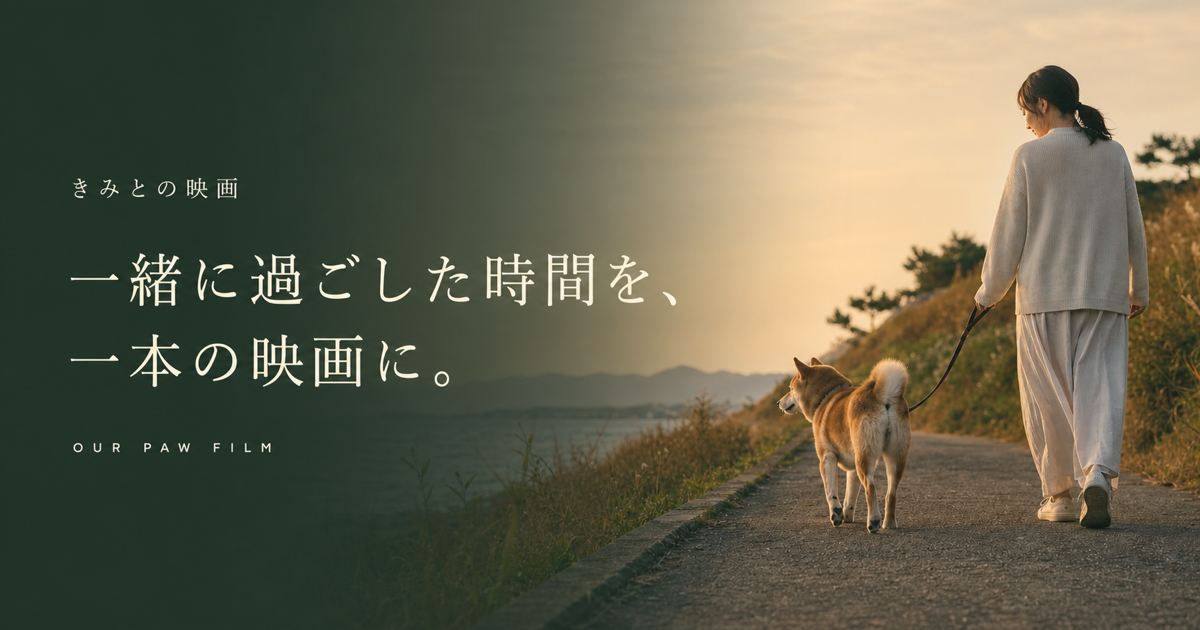
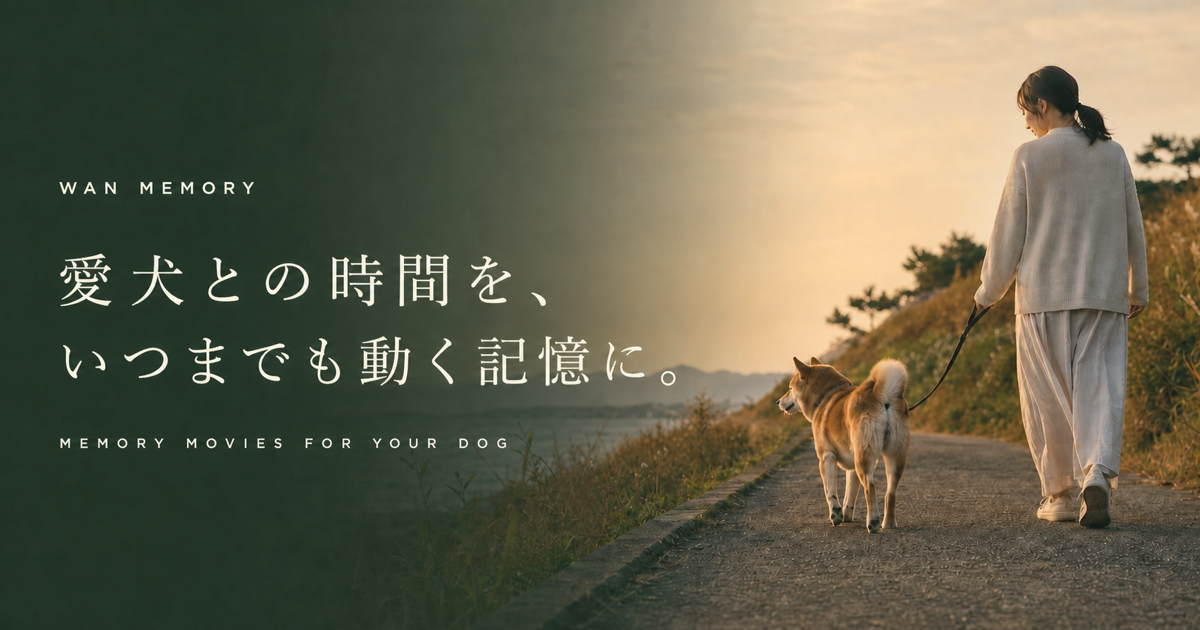
Rebrand site as WAN MEMORY

diff --git a/app/layout.tsx b/app/layout.tsx
@@ -10,22 +10,22 @@ export async function generateMetadata(): Promise<Metadata> {
 
   return {
     title: {
-      default: "きみとの映画｜愛犬との時間を一本の映画に",
-      template: "%s｜きみとの映画",
+      default: "WAN MEMORY｜愛犬との時間を動く記憶に",
+      template: "%s｜WAN MEMORY",
     },
     description:
       "写真とエピソードをもとに、愛犬とのかけがえのない時間を実写映画のような映像に仕立てるオーダーメイドサービスです。",
     openGraph: {
-      title: "きみとの映画",
-      description: "一緒に過ごした時間を、一本の映画に。",
+      title: "WAN MEMORY",
+      description: "愛犬との時間を、いつまでも動く記憶に。",
       locale: "ja_JP",
       type: "website",
-      images: [{ url: `${origin}/og.png`, width: 1200, height: 630, alt: "愛犬と歩く時間を一本の映画に" }],
+      images: [{ url: `${origin}/og.png`, width: 1200, height: 630, alt: "愛犬との時間を、いつまでも動く記憶に。" }],
     },
     twitter: {
       card: "summary_large_image",
-      title: "きみとの映画",
-      description: "一緒に過ごした時間を、一本の映画に。",
+      title: "WAN MEMORY",
+      description: "愛犬との時間を、いつまでも動く記憶に。",
       images: [`${origin}/og.png`],
     },
   };

diff --git a/app/components/SiteFooter.tsx b/app/components/SiteFooter.tsx
@@ -6,8 +6,8 @@ export function SiteFooter() {
       <div className="shell footer-grid">
         <div>
           <Link className="brand footer-brand" href="/">
-            <span className="brand-mark" aria-hidden="true">き</span>
-            <span className="brand-type">きみとの映画<small>OUR PAW FILM</small></span>
+            <span className="brand-mark" aria-hidden="true">WM</span>
+            <span className="brand-type">WAN MEMORY<small>MEMORY MOVIES FOR YOUR DOG</small></span>
           </Link>
           <p>愛犬との時間を、一本の実写映画に。</p>
         </div>
@@ -17,7 +17,7 @@ export function SiteFooter() {
           <div><p>LEGAL</p><span>利用規約</span><span>プライバシーポリシー</span><span>特定商取引法に基づく表記</span></div>
         </div>
       </div>
-      <div className="shell footer-bottom"><span>© 2026 KIMI TO NO EIGA</span><span>Made for every small, precious moment.</span></div>
+      <div className="shell footer-bottom"><span>© 2026 WAN MEMORY</span><span>Made for every small, precious moment.</span></div>
     </footer>
   );
 }

diff --git a/app/components/SiteHeader.tsx b/app/components/SiteHeader.tsx
@@ -4,9 +4,9 @@ export function SiteHeader() {
   return (
     <header className="site-header">
       <div className="shell header-inner">
-        <Link className="brand" href="/" aria-label="きみとの映画 トップへ">
-          <span className="brand-mark" aria-hidden="true">き</span>
-          <span className="brand-type">きみとの映画<small>OUR PAW FILM</small></span>
+        <Link className="brand" href="/" aria-label="WAN MEMORY トップへ">
+          <span className="brand-mark" aria-hidden="true">WM</span>
+          <span className="brand-type">WAN MEMORY<small>MEMORY MOVIES FOR YOUR DOG</small></span>
         </Link>
         <nav className="desktop-nav" aria-label="メインナビゲーション">
           <a href="/#films">作品</a>

diff --git a/app/globals.css b/app/globals.css
@@ -40,8 +40,8 @@ button, summary, label, a { -webkit-tap-highlight-color: transparent; }
 .site-header { height: 88px; position: absolute; inset: 0 0 auto; z-index: 20; color: white; border-bottom: 1px solid rgba(255,255,255,.16); }
 .header-inner { height: 100%; display: flex; align-items: center; }
 .brand { display: inline-flex; align-items: center; gap: 12px; min-height: 44px; }
-.brand-mark { width: 39px; height: 39px; display: inline-grid; place-items: center; border: 1px solid currentColor; border-radius: 50%; font-family: var(--font-serif); font-size: 19px; }
-.brand-type { display: flex; flex-direction: column; font-family: var(--font-serif); font-size: 17px; letter-spacing: .11em; line-height: 1.1; }
+.brand-mark { width: 39px; height: 39px; display: inline-grid; place-items: center; border: 1px solid currentColor; border-radius: 50%; font-family: var(--font-sans); font-size: 10px; font-weight: 700; letter-spacing: .04em; }
+.brand-type { display: flex; flex-direction: column; font-family: var(--font-serif); font-size: 17px; letter-spacing: .12em; line-height: 1.1; }
 .brand-type small { margin-top: 4px; font-family: var(--font-sans); font-size: 7px; letter-spacing: .19em; opacity: .65; }
 .desktop-nav { margin-left: auto; display: flex; align-items: center; gap: 34px; }
 .desktop-nav a { padding: 12px 0; font-size: 12px; font-weight: 600; letter-spacing: .05em; opacity: .78; transition: opacity .2s ease; }

diff --git a/app/story/StoryWizard.tsx b/app/story/StoryWizard.tsx
@@ -90,7 +90,7 @@ export function StoryWizard() {
   return (
     <main className="wizard-page">
       <header className="wizard-header">
-        <Link className="brand" href="/" aria-label="トップへ"><span className="brand-mark" aria-hidden="true">き</span><span className="brand-type">きみとの映画<small>OUR PAW FILM</small></span></Link>
+        <Link className="brand" href="/" aria-label="WAN MEMORY トップへ"><span className="brand-mark" aria-hidden="true">WM</span><span className="brand-type">WAN MEMORY<small>MEMORY MOVIES FOR YOUR DOG</small></span></Link>
         <div className="save-status" aria-live="polite"><span className={saved ? "save-dot active" : "save-dot"} />{saved ? "保存しました" : "自動保存"}</div>
         <Link className="wizard-close" href="/" aria-label="入力を閉じる">×</Link>
       </header>
@@ -113,7 +113,7 @@ export function StoryWizard() {
 
           {step === 3 && <div className="wizard-panel"><p className="eyebrow">FILM DIRECTION</p><h1 id="step-title">どんな空気の映画にしますか？</h1><p className="step-lead">迷ったら「日常映画」がおすすめです。担当者からもご提案します。</p><div className="style-list">{styles.map(([title, copy], index) => <label className={draft.style === title ? "style-card selected" : "style-card"} key={title}><input type="radio" name="style" checked={draft.style === title} onChange={() => update("style", title)} /><span className={`style-swatch swatch-${index + 1}`} aria-hidden="true" /><span><strong>{title}</strong><small>{copy}</small></span><span className="radio-dot" /></label>)}</div><div className="form-grid compact"><label><span>映像比率</span><select value={draft.ratio} onChange={(e) => update("ratio", e.target.value)}><option>16:9 横型</option><option>9:16 縦型</option><option>1:1 正方形</option></select></label><label><span>ナレーション</span><select value={draft.narration} onChange={(e) => update("narration", e.target.value)}><option>ナレーションなし</option><option>女性・日本語</option><option>男性・日本語</option><option>家族の声を使う</option></select></label><label><span>BGM</span><select value={draft.bgm} onChange={(e) => update("bgm", e.target.value)}><option>おまかせ</option><option>静かなピアノ</option><option>アコースティックギター</option><option>映画音楽のように</option></select></label></div></div>}
 
-          {step === 4 && <div className="wizard-panel"><p className="eyebrow">REVIEW</p><h1 id="step-title">ありがとうございます。</h1><p className="step-lead">まずは相談受付としてお預かりします。決済は内容と納期をご確認いただいた後です。</p><div className="review-card"><div className="review-title"><span className="brand-mark" aria-hidden="true">き</span><div><strong>{draft.petName || "愛犬"}ちゃんの映画</strong><small>{draft.purpose}・{draft.style}</small></div></div><dl><div><dt>お名前</dt><dd>{draft.petName || "未入力"}</dd></div><div><dt>犬種・年齢</dt><dd>{[draft.breed, draft.age].filter(Boolean).join(" / ") || "未入力"}</dd></div><div><dt>性格</dt><dd>{draft.personality.join("、") || "未入力"}</dd></div><div><dt>希望</dt><dd>{draft.ratio}・{draft.narration}</dd></div><div><dt>写真</dt><dd>{draft.photoNames.length ? `${draft.photoNames.length}枚を選択` : "後から追加"}</dd></div><div><dt>プラン</dt><dd>{draft.plan === "short" ? "メモリーショート" : draft.plan === "memorial" ? "メモリアル" : "メモリーフィルム"}</dd></div></dl><button type="button" className="review-edit" onClick={() => setStep(0)}>最初から内容を見直す</button></div><label className="consent-box"><input type="checkbox" checked={draft.consent} onChange={(e) => update("consent", e.target.checked)} /><span><strong>内容と写真の取り扱いについて確認しました</strong><small>自分が使用権限を持つ写真のみを提出し、制作目的で取り扱われることに同意します。1次版では外部送信されません。</small></span></label></div>}
+          {step === 4 && <div className="wizard-panel"><p className="eyebrow">REVIEW</p><h1 id="step-title">ありがとうございます。</h1><p className="step-lead">まずは相談受付としてお預かりします。決済は内容と納期をご確認いただいた後です。</p><div className="review-card"><div className="review-title"><span className="brand-mark" aria-hidden="true">WM</span><div><strong>{draft.petName || "愛犬"}ちゃんの映画</strong><small>{draft.purpose}・{draft.style}</small></div></div><dl><div><dt>お名前</dt><dd>{draft.petName || "未入力"}</dd></div><div><dt>犬種・年齢</dt><dd>{[draft.breed, draft.age].filter(Boolean).join(" / ") || "未入力"}</dd></div><div><dt>性格</dt><dd>{draft.personality.join("、") || "未入力"}</dd></div><div><dt>希望</dt><dd>{draft.ratio}・{draft.narration}</dd></div><div><dt>写真</dt><dd>{draft.photoNames.length ? `${draft.photoNames.length}枚を選択` : "後から追加"}</dd></div><div><dt>プラン</dt><dd>{draft.plan === "short" ? "メモリーショート" : draft.plan === "memorial" ? "メモリアル" : "メモリーフィルム"}</dd></div></dl><button type="button" className="review-edit" onClick={() => setStep(0)}>最初から内容を見直す</button></div><label className="consent-box"><input type="checkbox" checked={draft.consent} onChange={(e) => update("consent", e.target.checked)} /><span><strong>内容と写真の取り扱いについて確認しました</strong><small>自分が使用権限を持つ写真のみを提出し、制作目的で取り扱われることに同意します。1次版では外部送信されません。</small></span></label></div>}
 
           {error && <p className="form-error" role="alert">{error}</p>}
           <div className="wizard-actions">{step > 0 ? <button className="button button-ghost" type="button" onClick={() => { setError(""); setStep((current) => current - 1); }}>← 戻る</button> : <span />}{step < steps.length - 1 ? <button className="button button-primary" type="button" onClick={goNext}>次へ進む →</button> : <button className="button button-primary" type="button" onClick={submit}>相談を受け付ける →</button>}</div>

diff --git a/app/studio/StudioClient.tsx b/app/studio/StudioClient.tsx
@@ -24,11 +24,11 @@ export function StudioClient() {
 
   return (
     <main className="studio-page">
-      <header className="studio-header"><Link className="brand" href="/"><span className="brand-mark" aria-hidden="true">き</span><span className="brand-type">きみとの映画<small>OUR PAW FILM</small></span></Link><nav><Link href="/">ホーム</Link><Link href="/story">新しい相談</Link><button type="button" aria-label="通知">○</button><span className="avatar">GT</span></nav></header>
+      <header className="studio-header"><Link className="brand" href="/"><span className="brand-mark" aria-hidden="true">WM</span><span className="brand-type">WAN MEMORY<small>MEMORY MOVIES FOR YOUR DOG</small></span></Link><nav><Link href="/">ホーム</Link><Link href="/story">新しい相談</Link><button type="button" aria-label="通知">○</button><span className="avatar">GT</span></nav></header>
       {received && <div className="received-banner"><span aria-hidden="true">✓</span><div><strong>ご相談を受け付けました。</strong><p>担当者が内容を確認し、次に必要なものをご案内します。1次版のため外部送信はされていません。</p></div></div>}
       <div className="studio-shell">
         <div className="studio-top"><div><p className="eyebrow">YOUR FILM STUDIO</p><h1>{order.petName}ちゃんの制作室</h1><p>ここでストーリー確認から完成まで、ひとつずつ進めます。</p></div><div className="order-meta"><span>ORDER</span><strong>{order.orderNumber}</strong><small>{order.submittedAt ? new Intl.DateTimeFormat("ja-JP", { dateStyle: "medium" }).format(new Date(order.submittedAt)) : "受付前"}</small></div></div>
-        <section className="studio-status"><div className="status-copy"><span className="status-badge">現在のステップ</span><p>01 / 05</p><h2>お申し込み内容を確認しています</h2><p>写真とエピソードを担当者が確認しています。不足がある場合はこちらでお知らせします。</p><span className="estimate">次のご連絡目安：2営業日以内</span></div><div className="status-visual" aria-hidden="true"><div className="reel-circle"><span>き</span></div><i /><i /><i /></div></section>
+        <section className="studio-status"><div className="status-copy"><span className="status-badge">現在のステップ</span><p>01 / 05</p><h2>お申し込み内容を確認しています</h2><p>写真とエピソードを担当者が確認しています。不足がある場合はこちらでお知らせします。</p><span className="estimate">次のご連絡目安：2営業日以内</span></div><div className="status-visual" aria-hidden="true"><div className="reel-circle"><span>WM</span></div><i /><i /><i /></div></section>
         <section className="timeline-card"><div className="card-head"><div><p className="eyebrow">PRODUCTION JOURNEY</p><h2>完成までの流れ</h2></div><span>予定完成日　内容確認後にご案内</span></div><ol className="studio-timeline">{[
           ["01", "相談受付", "完了", true], ["02", "素材確認", "確認中", true], ["03", "ストーリー確認", "準備前", false], ["04", "シーン確認", "準備前", false], ["05", "映画の完成", "準備前", false]
         ].map(([number, title, state, active]) => <li className={active ? "active" : ""} key={String(number)}><span>{active ? "✓" : number}</span><div><strong>{title}</strong><small>{state}</small></div></li>)}</ol></section>

diff --git a/app/api/health/route.ts b/app/api/health/route.ts
@@ -1,3 +1,3 @@
 export async function GET() {
-  return Response.json({ status: "ok", service: "kimi-to-no-eiga", version: "mvp-0.1" });
+  return Response.json({ status: "ok", service: "wan-memory", version: "mvp-0.1" });
 }

diff --git a/app/page.tsx b/app/page.tsx
@@ -21,7 +21,7 @@ export default function Home() {
           </div>
         </div>
         <div className="shell hero-content">
-          <p className="eyebrow light">A FILM ABOUT YOU &amp; YOUR DOG</p>
+          <p className="eyebrow light">YOUR DOG. YOUR DAYS. YOUR MEMORY.</p>
           <h1 id="hero-title">
             一緒に過ごした時間を、
             <br />

diff --git a/README.md b/README.md
@@ -1,4 +1,4 @@
-# きみとの映画 — First MVP
+# WAN MEMORY — First MVP
 
 愛犬の写真とエピソードから、実写映画のような思い出映像を注文できるサービスの1次開発版です。
 